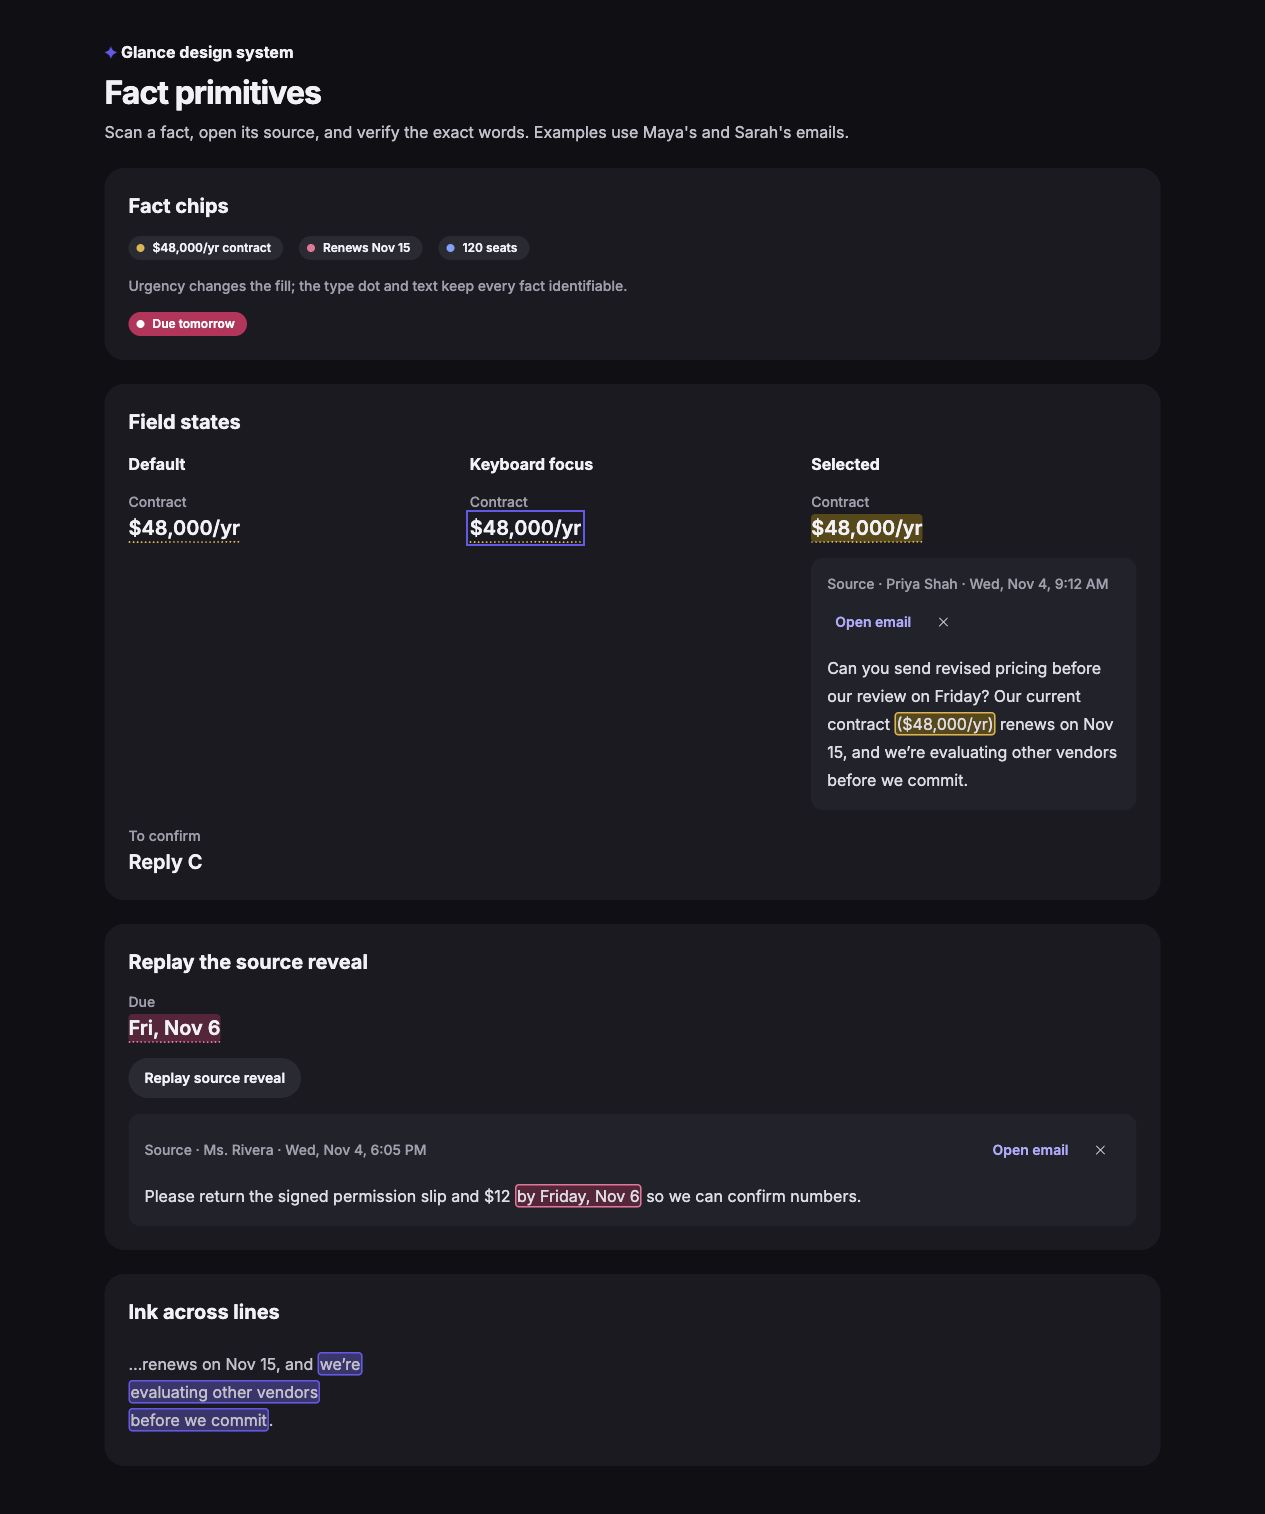
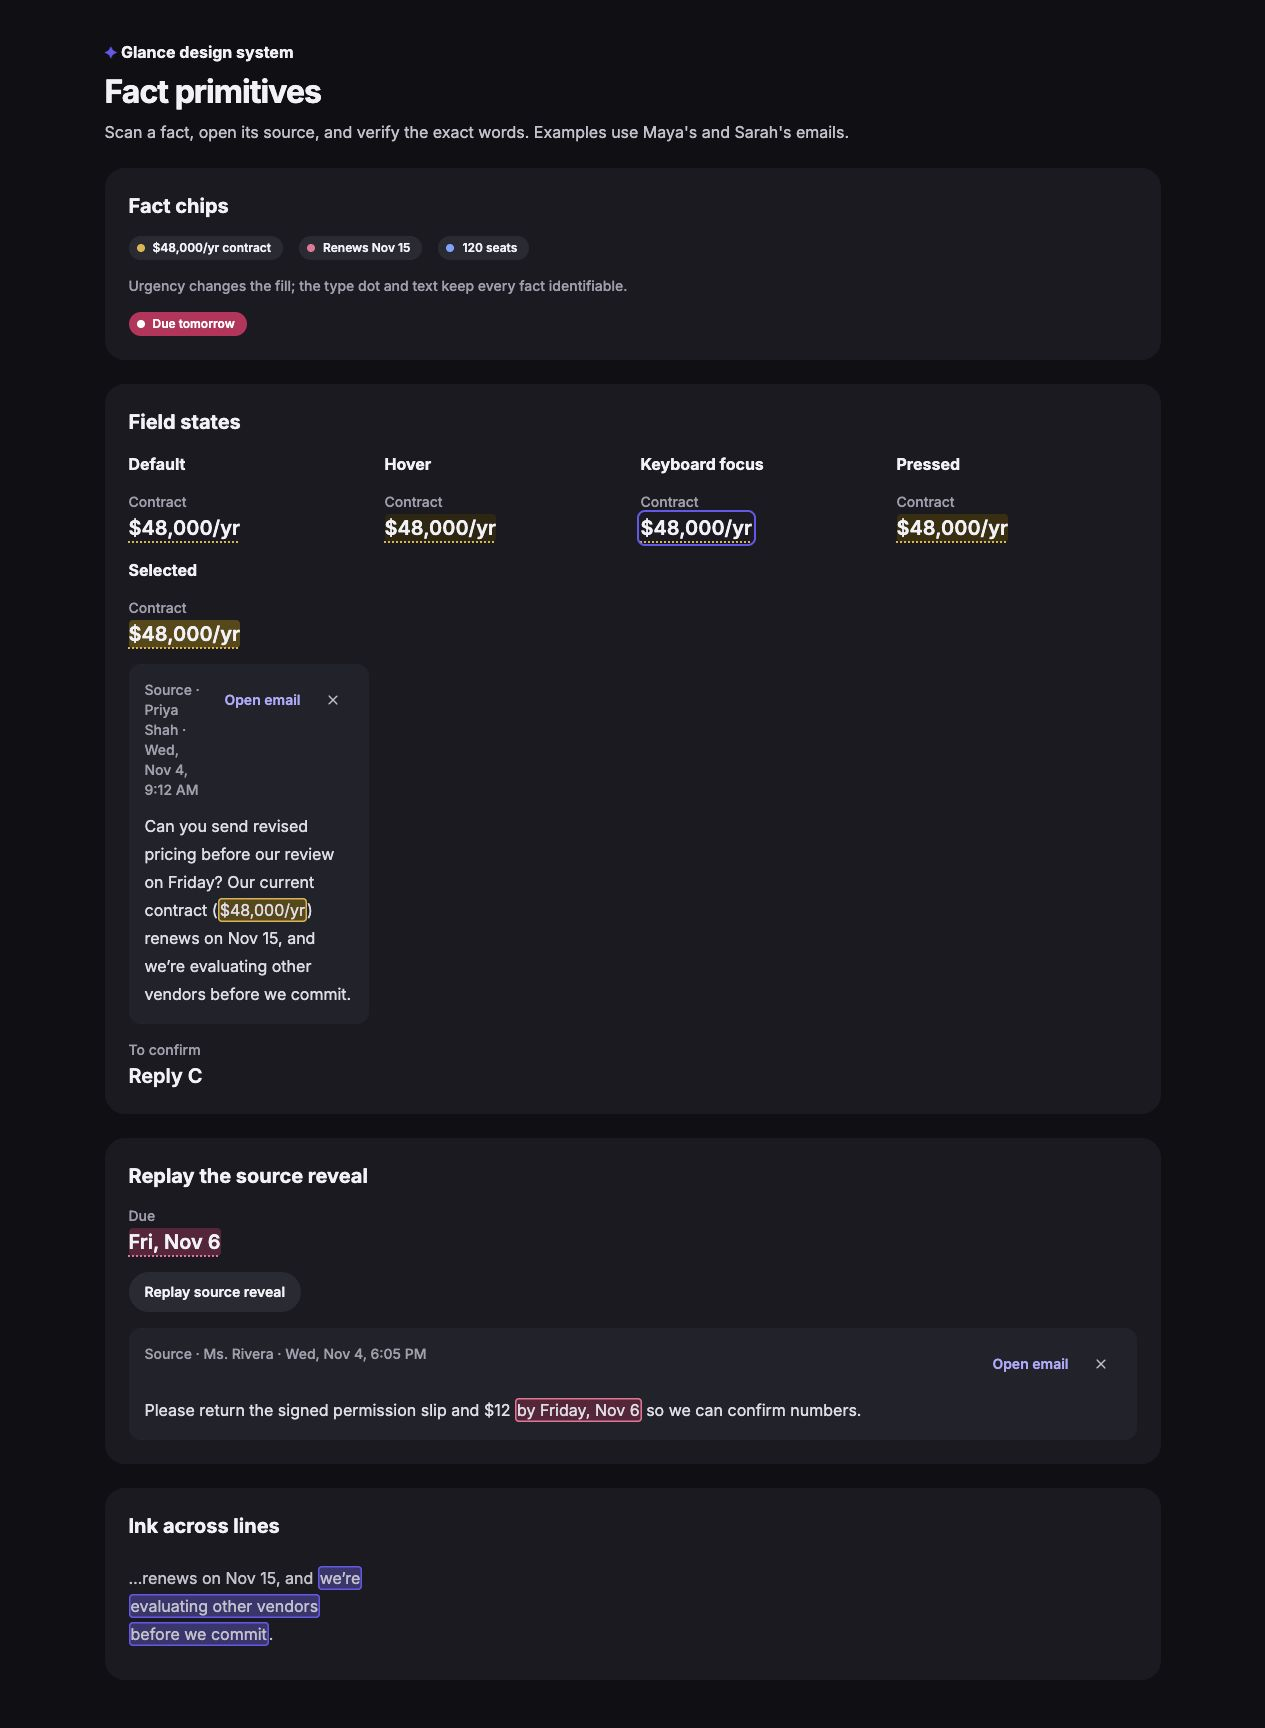
fix(ds): refine fact states and narrow source headers

diff --git a/src/design-system/components/Field/Field.stories.tsx b/src/design-system/components/Field/Field.stories.tsx
@@ -1,7 +1,9 @@
+import { FoundationPage } from '../../foundations/catalog';
+import styles from '../FactExamples.module.css';
 import type { Meta, StoryObj } from '@storybook/react-vite';
 import { expect, userEvent, fn, waitFor } from 'storybook/test';
 import { Field } from './Field';
-import { FieldExample } from '../FactExamples';
+import { FieldExample, FieldStatesExample } from '../FactExamples';
 import { factSamples, plainField } from '../factSamples';
 
 const meta = {
@@ -11,7 +13,7 @@ const meta = {
     docs: {
       description: {
         component:
-          '[Field specification](https://github.com/shuhaoshang/glance-mail/blob/main/docs/design-system.md#field). The enclosing item supplies the fact ID, kind, and selection handler. Hover and press leave the default style unchanged pending design approval.',
+          '[Field specification](https://github.com/shuhaoshang/glance-mail/blob/main/docs/design-system.md#field). The enclosing item supplies the fact ID, kind, and selection handler. Hover and press use fact-palette aliases. Selected ink takes precedence.',
       },
     },
   },
@@ -45,6 +47,20 @@ export default meta;
 type Story = StoryObj<typeof meta>;
 
 export const Default: Story = {};
+export const Hover: Story = {
+  parameters: { pseudo: { hover: 'button[aria-expanded]' } },
+};
+export const Pressed: Story = {
+  parameters: { pseudo: { active: 'button[aria-expanded]' } },
+};
+export const SelectedHover: Story = {
+  args: { selected: true },
+  parameters: { pseudo: { hover: 'button[aria-expanded]' } },
+};
+export const SelectedPressed: Story = {
+  args: { selected: true },
+  parameters: { pseudo: { active: 'button[aria-expanded]' } },
+};
 export const FocusVisible: Story = {
   parameters: { pseudo: { focusVisible: 'button[aria-expanded]' } },
 };
@@ -95,4 +111,28 @@ export const KeyboardSource: Story = {
       await expect(reopened).toBeVisible();
     });
   },
+};
+
+export const States: Story = {
+  parameters: {
+    layout: 'fullscreen',
+    pseudo: {
+      hover: '[data-field-state="Hover"] button[aria-expanded]',
+      active: '[data-field-state="Pressed"] button[aria-expanded]',
+      focusVisible: '[data-field-state="Focus"] button[aria-expanded]',
+    },
+  },
+  render: () => (
+    <FoundationPage
+      title="Field states"
+      description="Compare all five states for each fact type. Selected ink keeps its color during hover and press."
+    >
+      {Object.values(factSamples).map((sample) => (
+        <section className={styles.sheet} key={sample.fact.kind}>
+          <h2>{sample.fact.kind}</h2>
+          <FieldStatesExample sample={sample} />
+        </section>
+      ))}
+    </FoundationPage>
+  ),
 };

diff --git a/src/design-system/components/FactPrimitives.stories.tsx b/src/design-system/components/FactPrimitives.stories.tsx
@@ -2,7 +2,7 @@ import type { Meta, StoryObj } from '@storybook/react-vite';
 import { FoundationPage } from '../foundations/catalog';
 import { FactChip } from './FactChip/FactChip';
 import { Field } from './Field/Field';
-import { FieldExample } from './FactExamples';
+import { FieldExample, FieldStatesExample } from './FactExamples';
 import { Highlight } from './Highlight/Highlight';
 import { Text } from './Text/Text';
 import { evidence, factSamples, plainField, urgentFact } from './factSamples';
@@ -14,6 +14,8 @@ const meta = {
   parameters: {
     layout: 'fullscreen',
     pseudo: {
+      hover: '[data-field-state="Hover"] button[aria-expanded]',
+      active: '[data-field-state="Pressed"] button[aria-expanded]',
       focusVisible: '[data-field-state="Focus"] button[aria-expanded]',
     },
   },
@@ -41,21 +43,7 @@ export const Overview: StoryObj<typeof meta> = {
       </section>
       <section className={styles.sheet}>
         <h2>Field states</h2>
-        <div className={styles.columns}>
-          {['Default', 'Focus', 'Selected'].map((state) => (
-            <div
-              key={state}
-              className={styles.specimen}
-              data-field-state={state}
-            >
-              <h3>{state === 'Focus' ? 'Keyboard focus' : state}</h3>
-              <FieldExample
-                sample={factSamples.money}
-                initiallyOpen={state === 'Selected'}
-              />
-            </div>
-          ))}
-        </div>
+        <FieldStatesExample sample={factSamples.money} />
         <div className={styles.row}>
           <Field {...plainField} fact={undefined} />
         </div>

diff --git a/src/design-system/tokens/tokens.css b/src/design-system/tokens/tokens.css
@@ -42,6 +42,14 @@
   --color-sunken-pressed: #D9D8E0;
   --color-brand-text-hover: #3529B0;
 
+  /* Field states follow the active fact palette. */
+  --color-money-field-hover: var(--color-money-selected);
+  --color-money-field-pressed: var(--color-money-tint);
+  --color-time-field-hover: var(--color-time-selected);
+  --color-time-field-pressed: var(--color-time-tint);
+  --color-people-field-hover: var(--color-people-selected);
+  --color-people-field-pressed: var(--color-people-tint);
+
   /* ---------- Color: urgency (independent of type) ---------- */
   --color-urgent: #C2255C;          /* solid chip = urgent */
   --color-on-urgent: #FFFFFF;

diff --git a/src/design-system/components/Field/Field.module.css b/src/design-system/components/Field/Field.module.css
@@ -29,11 +29,19 @@
 }
 .traceable {
   cursor: pointer;
+  border-radius: var(--radius-highlight);
+  transition: background-color var(--duration-fast) var(--ease-standard);
   text-decoration-line: underline;
   text-decoration-style: dotted;
   text-decoration-color: var(--fact-color);
   text-decoration-thickness: var(--space-2);
   text-underline-offset: calc(var(--space-4) + var(--space-2));
+}
+.traceable:not(.selected):hover {
+  background: var(--fact-hover);
+}
+.traceable:not(.selected):active {
+  background: var(--fact-pressed);
 }
 .traceable:focus-visible {
   outline: var(--space-2) solid var(--color-brand);

diff --git a/src/design-system/components/factStyles.module.css b/src/design-system/components/factStyles.module.css
@@ -1,13 +1,19 @@
 .money {
   --fact-color: var(--color-money);
+  --fact-hover: var(--color-money-field-hover);
+  --fact-pressed: var(--color-money-field-pressed);
   --fact-ink: var(--color-money-ink);
 }
 .time {
   --fact-color: var(--color-time);
+  --fact-hover: var(--color-time-field-hover);
+  --fact-pressed: var(--color-time-field-pressed);
   --fact-ink: var(--color-time-ink);
 }
 .people {
   --fact-color: var(--color-people);
+  --fact-hover: var(--color-people-field-hover);
+  --fact-pressed: var(--color-people-field-pressed);
   --fact-ink: var(--color-people-ink);
 }
 .judgment {

diff --git a/src/design-system/components/FactExamples.tsx b/src/design-system/components/FactExamples.tsx
@@ -97,3 +97,16 @@ export function FieldExample({
     </div>
   );
 }
+
+export function FieldStatesExample({ sample }: { sample: FactSample }) {
+  return (
+    <div className={styles.columns}>
+      {['Default', 'Hover', 'Focus', 'Pressed', 'Selected'].map((state) => (
+        <div key={state} className={styles.specimen} data-field-state={state}>
+          <h3>{state === 'Focus' ? 'Keyboard focus' : state}</h3>
+          <FieldExample sample={sample} initiallyOpen={state === 'Selected'} />
+        </div>
+      ))}
+    </div>
+  );
+}

diff --git a/src/design-system/components/SourcePanel/SourcePanel.module.css b/src/design-system/components/SourcePanel/SourcePanel.module.css
@@ -7,10 +7,9 @@
   --highlight-delay: var(--duration-reveal);
 }
 .header {
-  display: flex;
-  flex-wrap: wrap;
-  align-items: center;
-  justify-content: space-between;
+  display: grid;
+  grid-template-columns: minmax(0, 1fr) auto;
+  align-items: start;
   gap: var(--space-8);
 }
 .metadata {
@@ -21,7 +20,7 @@
   display: flex;
   align-items: center;
   gap: var(--space-4);
-  flex: none;
+  white-space: nowrap;
 }
 .reveal {
   animation: reveal var(--duration-reveal) var(--ease-standard) both;

diff --git a/src/design-system/components/SourcePanel/SourcePanel.stories.tsx b/src/design-system/components/SourcePanel/SourcePanel.stories.tsx
@@ -93,6 +93,13 @@ export default meta;
 type Story = StoryObj<typeof meta>;
 
 export const Default: Story = {};
+export const Narrow: Story = {
+  render: (args) => (
+    <div className={styles.narrow}>
+      <PanelExample {...args} />
+    </div>
+  ),
+};
 export const Time: Story = {
   args: {
     from: factSamples.time.item.from,

diff --git a/src/design-system/components/FactExamples.module.css b/src/design-system/components/FactExamples.module.css
@@ -48,3 +48,7 @@
 .example > button {
   justify-self: start;
 }
+
+.narrow {
+  max-inline-size: calc(var(--size-touch) * 7);
+}

diff --git a/docs/design-system.md b/docs/design-system.md
@@ -52,6 +52,14 @@ All values come from `tokens.css`. The groups are:
 | `--color-sunken-hover` | `#E6E5EC` | `#34333F` | Neutral and icon button hover fill |
 | `--color-sunken-pressed` | `#D9D8E0` | `#3B3A47` | Neutral and icon button pressed fill |
 | `--color-brand-text-hover` | `#3529B0` | `#CFCBFF` | Text button hover and pressed ink |
+| `--color-money-field-hover` | `var(--color-money-selected)` | `var(--color-money-selected)` | Money Field hover fill |
+| `--color-money-field-pressed` | `var(--color-money-tint)` | `var(--color-money-tint)` | Money Field pressed fill |
+| `--color-time-field-hover` | `var(--color-time-selected)` | `var(--color-time-selected)` | Time Field hover fill |
+| `--color-time-field-pressed` | `var(--color-time-tint)` | `var(--color-time-tint)` | Time Field pressed fill |
+| `--color-people-field-hover` | `var(--color-people-selected)` | `var(--color-people-selected)` | People Field hover fill |
+| `--color-people-field-pressed` | `var(--color-people-tint)` | `var(--color-people-tint)` | People Field pressed fill |
+
+Field aliases are declared once in `:root` and resolve against the active light or dark palette.
 
 If a component needs a value that is not a token, **stop and ask in the PR**. Do not add it inline.
 
@@ -149,7 +157,7 @@ A value from the email. This is the building block of every scene card.
 
 The enclosing item resolves the fact ID and supplies its `kind` plus `onSelect(factId)`. `selected` is controlled by that item, and `sourcePanelId` links the trigger to its source region. Enter or Space opens the source; closing the connected example restores focus to the field.
 
-Keyboard focus uses the same 2 px brand outline and 2 px offset as the other primitives. Hover and pressed keep the field's existing appearance until fact-specific interaction colors are approved; the Interactive colors table currently defines button states only.
+Keyboard focus uses the same 2 px brand outline and 2 px offset as the other primitives. Unselected sourced fields use their type's `-field-hover` and `-field-pressed` aliases, with the 160 ms fast transition. Their text and dotted underline stay unchanged. Selected ink takes precedence over hover and pressed; unsourced fields have neither interaction state.
 
 
 ### Highlight
@@ -171,6 +179,7 @@ Text that wraps keeps the ink on every line (`box-decoration-break: clone`). Sho
 
 - **Header:** “Source · {sender} · {date}”, an “Open email” text button, and a close IconButton.
 - **Body:** the sentence in `Reading` style, with the fact highlighted.
+- **Narrow header:** actions stay together on one line at the top right; the sender and date wrap within the remaining left column.
 - **Entrance:**
   1. The panel fades in (200 ms).
   2. The ink sweeps across the words left to right (480 ms).
